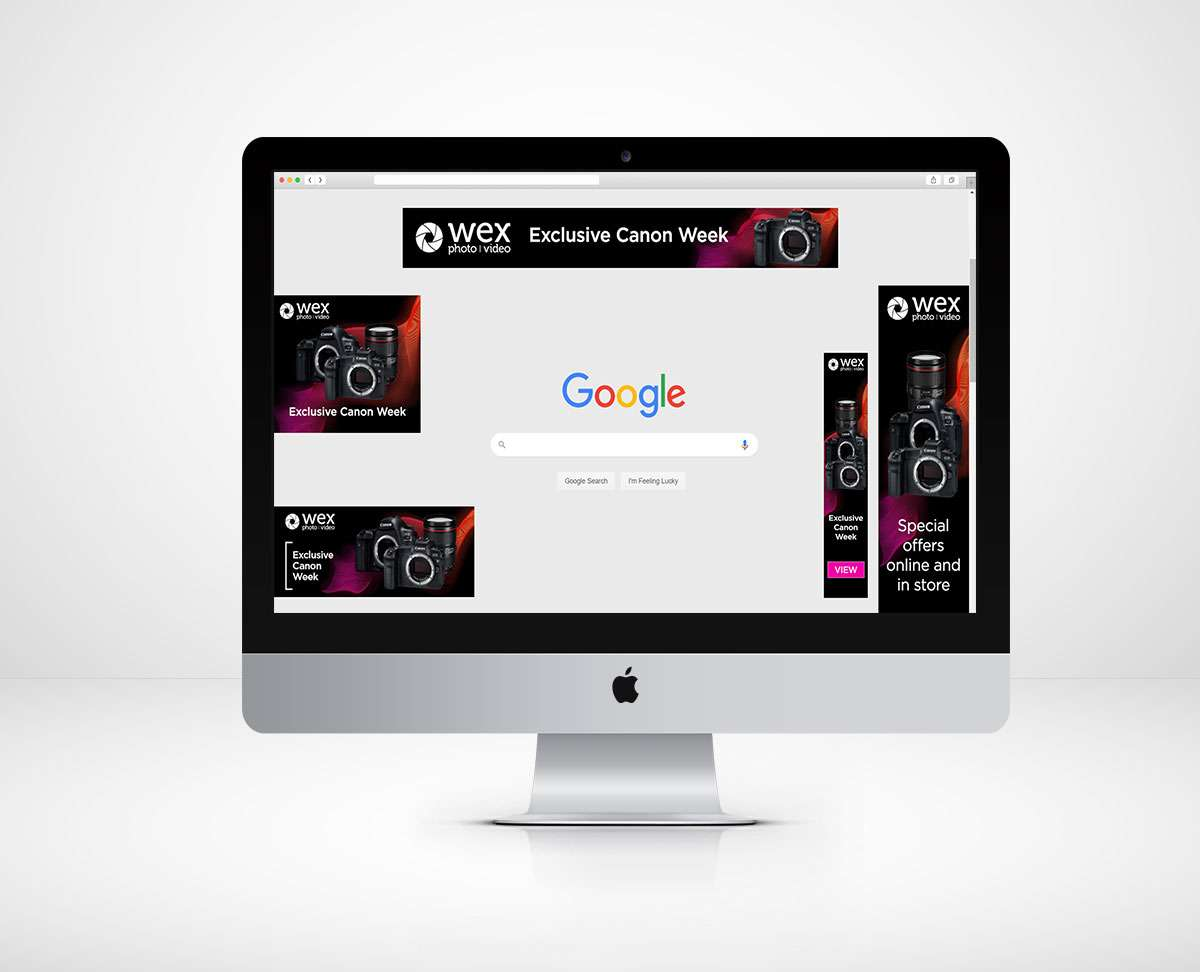
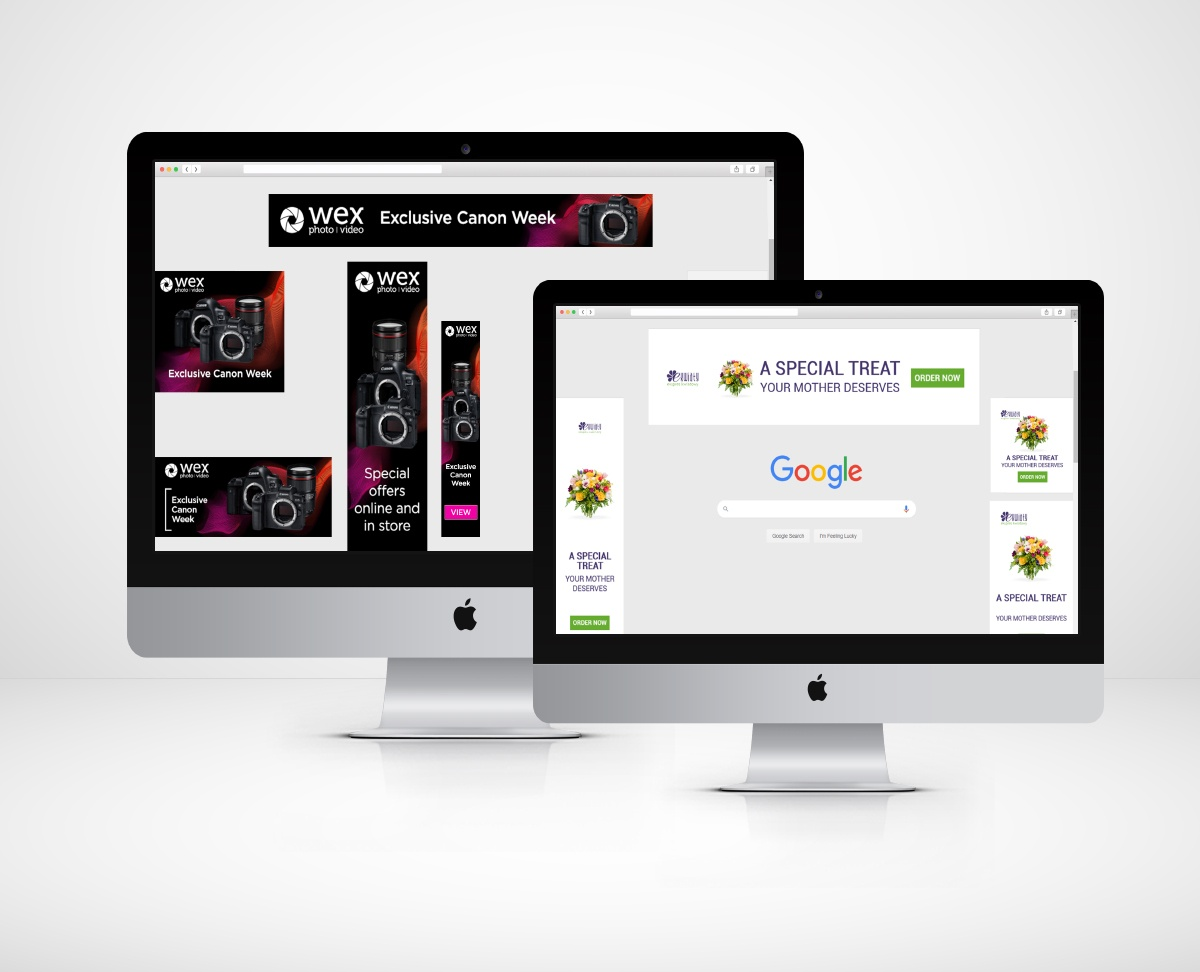
New cover images and links to Online Advertisement.

diff --git a/index.html b/index.html
@@ -334,7 +334,7 @@
                         <img class="card-img-top img-fluid project" src="images/optimised/animation-gwd-ads.jpg" alt="Google Web Designer Ads">
                     
                         <div class="card-body">
-                            <p class="card-title">Online gif ads and html banners</p>
+                            <p class="card-title">Google Web Designer add</p>
                             <p class="card-cta">Watch it ></p>
                         </div>
                     </a>
@@ -370,7 +370,7 @@
 
                 <!-- Online advertising -->
                 <div class="card col-md-4">
-                    <a href="https://www.behance.net/kateprasolek" target="_blank" rel="noreferrer"aria-pressed="true" aria-label="Other projects on Behance">
+                    <a href="https://www.behance.net/gallery/92624263/Online-advertisement-examples-GDNs-GIFs" target="_blank" rel="noreferrer"aria-pressed="true" aria-label="Other projects on Behance">
                         <img class="card-img-top img-fluid project" src="images/optimised/digital-online-advertising.jpg" alt="Online advertising">
                         
                         <div class="card-body">
